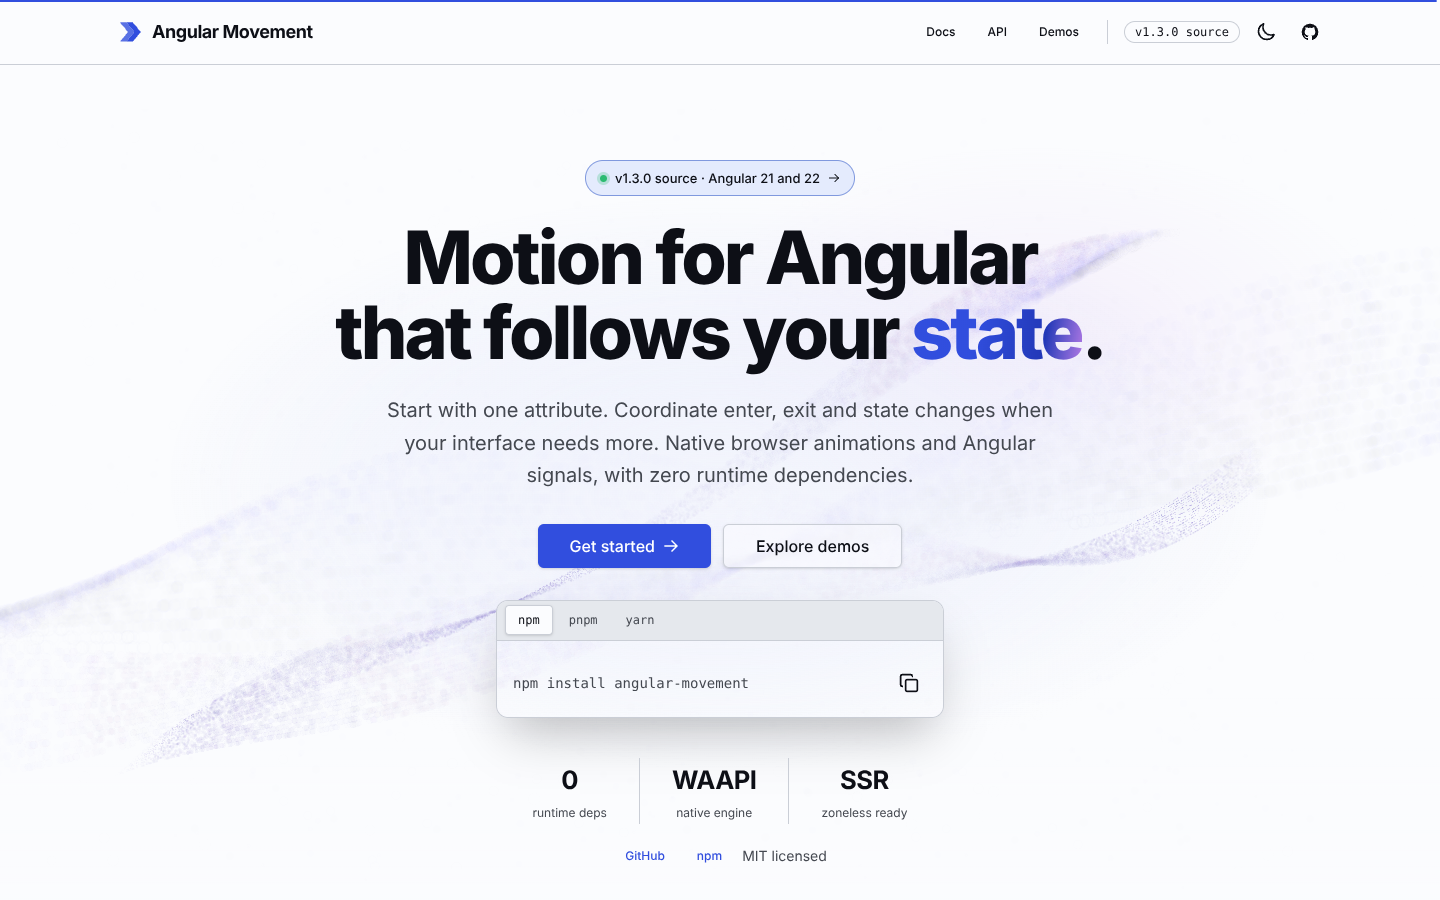
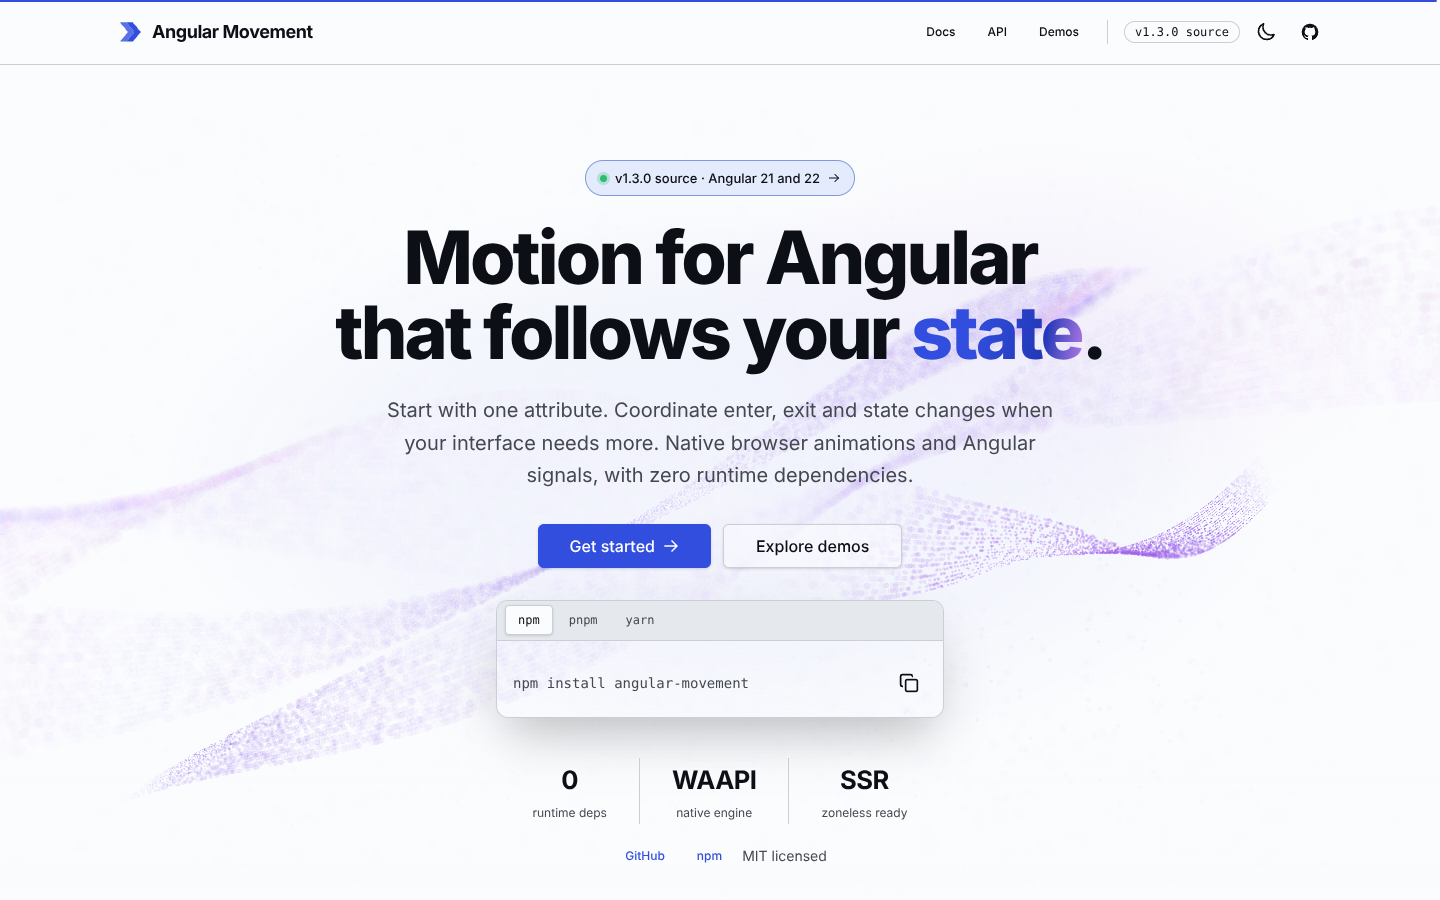
feat(site): cursor lens, unfurling intro and stronger light theme for the hero fibres
- The cursor is a lens: nearby fibres part, pull into focus and brighten; it
  fades in while the pointer moves and out once it rests or leaves.
- Ribbons unfurl left to right on entry; reduced motion draws them revealed.
- Light theme uses a saturated violet ink at higher gain.
- Portrait canvases shorten the ribbon span so it still crosses the frame.
- Pointer smoothing is frame-rate independent and canvas-relative.

Claude-Session: https://claude.ai/code/session_0164JbCv1W4MjexasdGUvB2L

diff --git a/src/app/pages/home/sections/hero/hero-flow-renderer.ts b/src/app/pages/home/sections/hero/hero-flow-renderer.ts
@@ -11,6 +11,9 @@ attribute vec4 aSeed;
 uniform float uTime;
 uniform float uAspect;
 uniform vec2 uPointer;
+uniform vec2 uCursor;
+uniform float uPull;
+uniform float uIntro;
 uniform float uPointSize;
 varying float vAlpha;
 varying float vTint;
@@ -20,6 +23,7 @@ const float CAM_DIST = 3.2;
 const float FOCUS = 3.0;
 const float LENS = 1.55;
 const float FIBRES = 18.0;
+const float LENS_RADIUS = 0.26;
 
 void main() {
   float t = uTime;
@@ -29,12 +33,16 @@ void main() {
   float r = floor(aSeed.w * 3.0);
   float dust = step(0.92, fract(aSeed.w * 9.7));
 
-  // Each ribbon is a slow travelling wave that rises left to right, each on its own phase.
+  // Each ribbon is a slow travelling wave that rises left to right, each on its own phase. A
+  // second, slower swell keeps the fold positions from ever repeating exactly.
   float phase = r * 2.1;
-  float x = u * 2.6;
-  float y = 0.42 * sin(u * 1.7 + t * 0.22 + phase)
+  // Narrow (portrait) canvases get a shorter span so the ribbons still cross the frame.
+  float span = clamp(uAspect / 1.6, 0.55, 1.0);
+  float x = u * 2.6 * span;
+  float swell = sin(t * 0.07 + phase) * 0.12;
+  float y = (0.42 + swell) * sin(u * 1.7 + t * 0.22 + phase)
           + 0.16 * sin(u * 3.3 - t * 0.17 + phase * 1.7)
-          + u * 0.75 + (r - 1.0) * 0.42;
+          + u * 0.75 * span + (r - 1.0) * 0.42;
   float z = 1.1 * sin(u * 1.25 + t * 0.15 + phase * 0.6) + 0.35;
 
   // Fibres: the width is split into evenly spaced strands, each a dotted line along the ribbon.
@@ -45,29 +53,43 @@ void main() {
   vec3 p = vec3(x, y, z) + vec3(0.0, cos(twist), sin(twist)) * strand * width;
   p += vec3(0.0, 0.004, 0.004) * (jitter - 0.5);
 
-  // A loose haze of free-floating dust around the ribbons for depth.
-  p = mix(p, vec3(u * 2.8, (across * 2.0 - 1.0) * 1.6, (jitter * 2.0 - 1.0) * 1.8), dust);
+  // A loose haze of free-floating dust around the ribbons for depth, drifting very slowly.
+  vec3 haze = vec3(u * 2.8, (across * 2.0 - 1.0) * 1.6, (jitter * 2.0 - 1.0) * 1.8);
+  haze.y += sin(t * 0.05 + u * 3.0 + jitter * 6.28) * 0.08;
+  p = mix(p, haze, dust);
 
-  // Gentle pointer parallax: a small yaw and pitch of the whole volume.
-  float yaw = uPointer.x * 0.12;
-  float pitch = -uPointer.y * 0.08;
+  // Weighted parallax: a small yaw and pitch of the whole volume toward the pointer.
+  float yaw = uPointer.x * 0.16;
+  float pitch = -uPointer.y * 0.1;
   p.xz = mat2(cos(yaw), -sin(yaw), sin(yaw), cos(yaw)) * p.xz;
   p.yz = mat2(cos(pitch), -sin(pitch), sin(pitch), cos(pitch)) * p.yz;
 
   float depth = CAM_DIST - p.z;
   vec2 ndc = p.xy / max(depth, 0.1) * LENS;
   ndc.x /= uAspect;
+
+  // The cursor is a lens: fibres near it part a little, pull into focus and brighten. Measured
+  // in aspect-corrected space so the lens is round; uPull fades it in on movement and out at rest.
+  vec2 toPoint = (ndc - uCursor) * vec2(uAspect, 1.0);
+  float reach = length(toPoint);
+  float lens = uPull * exp(-(reach * reach) / (2.0 * LENS_RADIUS * LENS_RADIUS));
+  ndc += (toPoint / (reach + 0.04)) * vec2(1.0 / uAspect, 1.0) * lens * 0.09;
+
+  // The intro unfurls each ribbon from left to right instead of popping the whole field in.
+  float sweep = uIntro * 2.6 - 1.3;
+  float reveal = smoothstep(0.0, 0.3, sweep - u);
   gl_Position = vec4(ndc, depth > 0.1 ? 0.0 : 2.0, 1.0);
 
   // Depth of field: the circle of confusion grows with distance from the focal plane, and the
   // same light spread over a bigger disc gets dimmer, so bokeh stays soft instead of loud.
-  float coc = abs(depth - FOCUS);
+  float coc = abs(depth - FOCUS) * (1.0 - 0.85 * lens);
   float size = uPointSize * (1.4 + coc * 9.0 + dust * 3.0);
   gl_PointSize = min(size, 48.0);
   float spread = (uPointSize * 1.4) / gl_PointSize;
-  vAlpha = mix(0.9, 0.35, dust) * spread * spread * 1.6 * smoothstep(1.0, 0.75, abs(u));
+  vAlpha = mix(0.9, 0.35, dust) * spread * spread * 1.6 * smoothstep(1.0, 0.75, abs(u))
+         * reveal * (1.0 + lens * 2.6);
   vSoft = smoothstep(0.05, 0.4, coc);
-  vTint = jitter;
+  vTint = clamp(jitter + lens * 0.6, 0.0, 1.0);
 }
 `;
 
@@ -130,12 +152,27 @@ function seeds(): Float32Array {
 // Violet fibres warming to lilac highlights; light theme uses saturated inks at lower gain.
 const DUST_DARK: [number, number, number] = [0.5, 0.42, 1.0];
 const ACCENT_DARK: [number, number, number] = [0.86, 0.74, 1.0];
-const DUST_LIGHT: [number, number, number] = [0.24, 0.26, 0.62];
-const ACCENT_LIGHT: [number, number, number] = [0.42, 0.24, 0.8];
+const DUST_LIGHT: [number, number, number] = [0.33, 0.24, 0.86];
+const ACCENT_LIGHT: [number, number, number] = [0.6, 0.28, 0.92];
+
+/** Everything a frame depends on; positions are canvas NDC (-1..1, y up). */
+export interface HeroFlowFrame {
+  readonly time: number;
+  readonly dark: boolean;
+  /** Slow, weighted pointer for the whole-volume parallax. */
+  readonly pointerX: number;
+  readonly pointerY: number;
+  /** Fast pointer for the local lens, and how strongly the lens is on (0..1). */
+  readonly cursorX: number;
+  readonly cursorY: number;
+  readonly pull: number;
+  /** 0 → 1 over the entrance; 1 when motion is reduced. */
+  readonly intro: number;
+}
 
 export interface HeroFlowRenderer {
   resize(width: number, height: number, deviceRatio: number): void;
-  draw(time: number, dark: boolean, pointerX: number, pointerY: number): void;
+  draw(frame: HeroFlowFrame): void;
   dispose(loseContext?: boolean): void;
 }
 
@@ -211,6 +248,9 @@ export function createHeroFlowRenderer(
   const colorBUniform = gl.getUniformLocation(program, 'uColorB');
   const gainUniform = gl.getUniformLocation(program, 'uGain');
   const pointSizeUniform = gl.getUniformLocation(program, 'uPointSize');
+  const cursorUniform = gl.getUniformLocation(program, 'uCursor');
+  const pullUniform = gl.getUniformLocation(program, 'uPull');
+  const introUniform = gl.getUniformLocation(program, 'uIntro');
   let count = HERO_PARTICLE_LIMIT;
 
   return {
@@ -226,15 +266,18 @@ export function createHeroFlowRenderer(
       // One CSS pixel per point, whatever the backing-store ratio.
       gl.uniform1f(pointSizeUniform, Math.max(1, size.ratio));
     },
-    draw(time, dark, pointerX, pointerY) {
+    draw({ time, dark, pointerX, pointerY, cursorX, cursorY, pull, intro }) {
       gl.uniform1f(timeUniform, time);
       gl.uniform2f(pointerUniform, pointerX, pointerY);
+      gl.uniform2f(cursorUniform, cursorX, cursorY);
+      gl.uniform1f(pullUniform, pull);
+      gl.uniform1f(introUniform, intro);
       const dust = dark ? DUST_DARK : DUST_LIGHT;
       const accent = dark ? ACCENT_DARK : ACCENT_LIGHT;
       gl.uniform3f(colorAUniform, dust[0], dust[1], dust[2]);
       gl.uniform3f(colorBUniform, accent[0], accent[1], accent[2]);
-      // On light surfaces the field is a faint ink wash: half the particles, a fraction of the gain.
-      gl.uniform1f(gainUniform, dark ? 0.9 : 0.26);
+      // On light surfaces the field is a violet ink wash: half the particles at about half the gain.
+      gl.uniform1f(gainUniform, dark ? 0.9 : 0.5);
       // Dark theme glows additively, so overlapping fibres bloom; light theme composites
       // premultiplied ink over white.
       if (dark) {

diff --git a/src/app/pages/home/sections/hero/hero-flow.ts b/src/app/pages/home/sections/hero/hero-flow.ts
@@ -14,12 +14,22 @@ import {
   viewChild,
 } from '@angular/core';
 import { ThemeService } from '../../../../shared/theme.service';
-import { createHeroFlowRenderer, type HeroFlowRenderer } from './hero-flow-renderer';
+import {
+  createHeroFlowRenderer,
+  type HeroFlowFrame,
+  type HeroFlowRenderer,
+} from './hero-flow-renderer';
 import { warmHeroGpu } from './hero-flow-warmup';
 
 // 60 draws/s at most: slow motion only looks fluid when it is not sampled in steps. The
 // slack keeps a 60 Hz display on every frame and halves a 120 Hz one.
 const FRAME_INTERVAL = 1000 / 60 - 2;
+const INTRO_SECONDS = 2.4;
+// The lens stays on while the pointer is moving and for this long after it stops.
+const LENS_LINGER = 1200;
+
+/** Frame-rate independent smoothing: the share of the remaining gap to close in `dt` seconds. */
+const approach = (rate: number, dt: number) => 1 - Math.exp(-rate * dt);
 
 @Component({
   selector: 'app-hero-flow',
@@ -79,6 +89,10 @@ export class HeroFlow {
   #dark = true;
   #pointerTarget = { x: 0, y: 0 };
   #pointer = { x: 0, y: 0 };
+  #cursor = { x: 0, y: 0 };
+  #pull = 0;
+  #inside = false;
+  #lastMove = -Infinity;
   #events: AbortController | undefined;
   #resizeObserver: ResizeObserver | undefined;
   #intersectionObserver: IntersectionObserver | undefined;
@@ -128,8 +142,15 @@ export class HeroFlow {
     this.#document.addEventListener(
       'pointermove',
       (event) => {
-        this.#pointerTarget.x = (event.clientX / view.innerWidth) * 2 - 1;
-        this.#pointerTarget.y = -((event.clientY / view.innerHeight) * 2 - 1);
+        // Canvas-relative, so the lens lands under the cursor however far the page scrolled.
+        const rect = canvas.getBoundingClientRect();
+        this.#pointerTarget.x = ((event.clientX - rect.left) / rect.width) * 2 - 1;
+        this.#pointerTarget.y = -(((event.clientY - rect.top) / rect.height) * 2 - 1);
+        this.#inside =
+          event.pointerType !== 'touch' &&
+          Math.abs(this.#pointerTarget.x) <= 1 &&
+          Math.abs(this.#pointerTarget.y) <= 1;
+        this.#lastMove = performance.now();
       },
       options,
     );
@@ -168,7 +189,7 @@ export class HeroFlow {
     const { width, height } = canvas.getBoundingClientRect();
     if (!width || !height || !this.#renderer) return;
     this.#renderer.resize(width, height, this.#document.defaultView?.devicePixelRatio ?? 1);
-    this.#renderer.draw(this.#elapsed, this.#dark, this.#pointer.x, this.#pointer.y);
+    this.#renderer.draw(this.#frameState());
   }
 
   #sync(active: boolean): void {
@@ -180,7 +201,7 @@ export class HeroFlow {
     } else {
       this.#stop();
       if (this.#visible() && !this.#hidden()) {
-        this.#renderer?.draw(this.#elapsed, this.#dark, this.#pointer.x, this.#pointer.y);
+        this.#renderer?.draw(this.#frameState());
       }
     }
   }
@@ -192,15 +213,38 @@ export class HeroFlow {
     }
     const delta = this.#lastDraw ? now - this.#lastDraw : FRAME_INTERVAL;
     if (delta >= FRAME_INTERVAL) {
-      this.#elapsed += Math.min(delta, 100) / 1000;
-      // Glide toward the pointer so the parallax feels weighted, not sticky.
-      this.#pointer.x += (this.#pointerTarget.x - this.#pointer.x) * 0.04;
-      this.#pointer.y += (this.#pointerTarget.y - this.#pointer.y) * 0.04;
-      this.#renderer.draw(this.#elapsed, this.#dark, this.#pointer.x, this.#pointer.y);
+      const dt = Math.min(delta, 100) / 1000;
+      this.#elapsed += dt;
+      // The volume leans toward the pointer slowly (weighted parallax); the lens follows it
+      // closely, and fades in while the pointer moves and back out once it rests or leaves.
+      const parallax = approach(2.5, dt);
+      this.#pointer.x += (this.#pointerTarget.x - this.#pointer.x) * parallax;
+      this.#pointer.y += (this.#pointerTarget.y - this.#pointer.y) * parallax;
+      const follow = approach(12, dt);
+      this.#cursor.x += (this.#pointerTarget.x - this.#cursor.x) * follow;
+      this.#cursor.y += (this.#pointerTarget.y - this.#cursor.y) * follow;
+      const engaged = this.#inside && now - this.#lastMove < LENS_LINGER;
+      this.#pull += ((engaged ? 1 : 0) - this.#pull) * approach(engaged ? 5 : 1.6, dt);
+      this.#renderer.draw(this.#frameState());
       this.#lastDraw = now - (delta % FRAME_INTERVAL);
     }
     this.#frame = requestAnimationFrame(this.#tick);
   };
+
+  #frameState(): HeroFlowFrame {
+    // Ease-out cubic entrance; a reduced-motion (static) frame is drawn fully revealed.
+    const progress = Math.min(this.#elapsed / INTRO_SECONDS, 1);
+    return {
+      time: this.#elapsed,
+      dark: this.#dark,
+      pointerX: this.#pointer.x,
+      pointerY: this.#pointer.y,
+      cursorX: this.#cursor.x,
+      cursorY: this.#cursor.y,
+      pull: this.reduced() ? 0 : this.#pull,
+      intro: this.reduced() ? 1 : 1 - Math.pow(1 - progress, 3),
+    };
+  }
 
   #stop(): void {
     if (this.#frame !== null) cancelAnimationFrame(this.#frame);

diff --git a/e2e/hero-flow.spec.ts b/e2e/hero-flow.spec.ts
@@ -166,7 +166,7 @@ test('organic hero draws a bounded field and supports theme changes and route cl
   const theme = page.getByRole('button', { name: /Switch to (dark|light) theme/ }).first();
   await theme.click();
   const expectedGain =
-    (await page.locator('html').getAttribute('data-theme')) === 'dark' ? 0.9 : 0.26;
+    (await page.locator('html').getAttribute('data-theme')) === 'dark' ? 0.9 : 0.5;
   await expect
     .poll(() => fieldUniform(page, 'uGain'), { timeout: 10_000 })
     .toBeCloseTo(expectedGain, 1);

diff --git a/docs/ai/STATE.md b/docs/ai/STATE.md
@@ -47,7 +47,11 @@ Evidence and visual diagnosis: `docs/ai/evidence/019/README.md`.
   noise): three layered ribbons of 18 dotted strands each, travelling sine waves that twist edge-on
   into bright folds, with a depth of field (circle of confusion ∝ distance from focus, alpha ∝
   1/size² so bokeh stays dim). Closed-form sines, no noise: 60,000 desktop / 24,000 compact points
-  at up to 60 draws/s, additive in dark, premultiplied ink in light (gain 0.26). Backing ≤1600×1000,
+  at up to 60 draws/s, additive in dark, violet premultiplied ink in light (gain 0.5). The cursor
+  is a **lens** (`uCursor`, `uPull`): fibres near it part, pull into focus and brighten; it fades in
+  on movement and out ~1.2s after rest/leave, and is off under reduced motion. Ribbons **unfurl**
+  left→right over 2.4s (`uIntro`, 1 when reduced). Smoothing is frame-rate independent
+  (`1 - exp(-rate·dt)`); `draw()` takes a `HeroFlowFrame`. Backing ≤1600×1000,
   no dependency. The copy fades on scroll via `moveScroll`. No scroll-cue icon.
 - Landing sections, in order: hero → `app-capabilities` (directive **marquee** on `moveLoop`, two
   runs slid by -50%; wrapped list under reduced motion) → `app-state-demo` (task showcase) →
